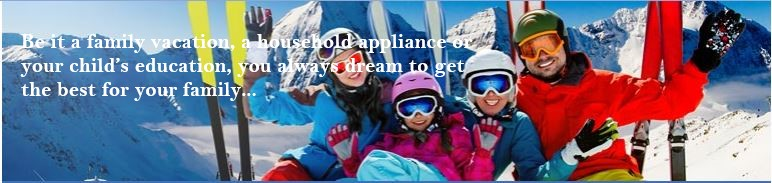
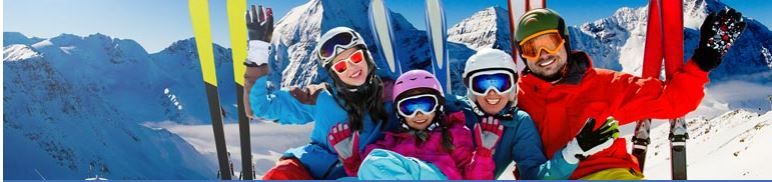
Adding Personal Loan file & Editing

diff --git a/ploan.html b/ploan.html
@@ -1,4 +1,5 @@
 <html>
+<html>
 <head>
 <title>XYZ Bank</title>
 <link rel="stylesheet" type="text/css" href="style.css" />
@@ -38,21 +39,24 @@
 </div>
 </div>
 </div>
-<h1 class="loan">Home Loans</h1>
-<img src="hloan.JPG" class="imgh" width="100%">
+<h1 class="loan">Personal Loan</h1>
+<img src="ploan1.JPG" class="imgh" width="100%">
+<br><br>
 <br><br>
 <div class="over">
 <ul >
 <li><h1 class="overview">Overview</h1><br>
 
-At XY Bank, you’ll find the partner you need to make your dream home come true. All our efforts work towards putting your dream home within your reach. Whether it’s purchasing a new house, or renovating your existing home, XY Bank has a wide range of home loan options* that are specific to your needs.<br><br>
+Be it a family vacation, a household appliance or your child’s education, you always dream to get the best for your family. With the Deutsche Bank personal loan products*, you will always be prepared to fulfill your dreams.
+<br><br>
 
-Here are some of the key features of a Home Loan: <br>
+Here are some of the key features of the loan: <br>
 <ul class="p" style="list-style-type:circle;">
-		<li>Avail of loan amounts up to Rs. 15 crores.<br>
-		<li>Enjoy the flexibility of tenures that ranges from 5 years to 20 years.<br>
-		<li>Choose between a fixed or a floating interest rate for your loan and enjoy complete peace of mind with attractive 
-			interest rates and savings on taxes under Income Tax Act, 1961.
+		<li>Easy loan tenure: Pay off your Personal Loan at your ease.<br>
+		<li>Balance transfer option: Transfer your high interest loan from any other bank to avail current interest rates.<br>
+		<li>Existing customer advantage: Avail of a Personal Loan without providing income papers.<br>
+		<li>Easy documentation: Avoid the hassle of multiple documentation.<br>
+		<li>Quick approval process: You don't have to wait too long to obtain a personal loan anymore.<br>
 </ul>
 <br>
 <center>
@@ -65,23 +69,20 @@ Here are some of the key features of a Home Loan: <br>
 <table class="tab"> 
 	<tr>
 		<th>Eligibility Criteria</th>
-		<td>Salaried</td>
-		<td>Self Employed</td>
+		<td>Existing Customers</td>
 	</tr>
 	<tr>
 		<td>Minimum Age</td>
-		<td>23 years</td>
-		<td>23 years</td>
+		<td>25 years</td>
 	</tr>
 	<tr>	
 		<td>Maximum Age</td>
-		<td>63 years or retirement,whichever is earlier</td>
-		<td>65 years</td>
+		<td>60 years</td>
 	</tr>
 	<tr>
-		<td>Minimum Gross Annual Income(in INR)</td>
-		<td>500,000</td>
-		<td>500,000</td>
+		<td>Income(INR)</td>
+		<td>Monthly take home- Rs. 25,000 or above</td>
+		<td>500,000</td>	
 	</tr>
 </table>
 </center>
@@ -190,5 +191,6 @@ Here are some of the key features of a Home Loan: <br>
 <pre>
 		<span id="dy">Copyright 2017 XYZ Bank  All Rights Reserved					<a href="#">Disclamier</a> | <a href="#">Privacy Policy</a> | <a href="#">Code Of Commitment</a></span>
 		</div>
+
 
 

diff --git a/index.html b/index.html
@@ -18,21 +18,23 @@
 <div>
 	<ul>
 	<li><a href="index.html">Home</a></li>
-	<li><a href="#">Grab Deals</a></li>
-	<li><a href="#">Make Payments</a></li>
-	<li><a href="netbank.html">Net Banking</a></li>
-	<li><a href="#">Progress With Us</a></li>
-	<li><a href="form.html">Open NRI Account</a></li>
-
-  <li class="dropdown">
+	<li class="dropdown">
     <a href="#" class="dropbtn">Loans</a>
     <div class="dropdown-content">
-      <a href="#">PersonalLoans</a>
-      <a href="hloan.html">Home Loans</a>
-      <a href="#">Car Loans</a>
-	  <a href="#">Educational Loans</a>
+      <a href="ploan.html">Personal Loan</a>
+      <a href="hloan.html">Home Loan</a>
+      <a href="#">Car Loan</a>
+	  <a href="#">Educational Loan</a>
     </div>
 </li>
+<li><a href="form.html">Open NRI Account</a></li>
+	<li><a href="netbank.html">Net Banking</a></li>
+	<li><a href="#">Grab Deals</a></li>
+	<li><a href="#">Make Payments</a></li>
+	<li><a href="#">Progress With Us</a></li>
+	
+
+  
 </ul>	
 </center>
 </div>

diff --git a/form.html b/form.html
@@ -17,21 +17,22 @@
 <div>
 	<ul>
 	<li><a href="index.html">Home</a></li>
-	<li><a href="#">Grab Deals</a></li>
-	<li><a href="#">Make Payments</a></li>
-	<li><a href="netbank.html">Net Banking</a></li>
-	<li><a href="#">Progress With Us</a></li>
-	<li><a href="form.html">Open NRI Account</a></li>
-
-  <li class="dropdown">
+	<li class="dropdown">
     <a href="#" class="dropbtn">Loans</a>
     <div class="dropdown-content">
-      <a href="#">PersonalLoans</a>
-      <a href="hloan.html">Home Loans</a>
-      <a href="#">Car Loans</a>
-	  <a href="#">Educational Loans</a>
+      <a href="ploan.html">Personal Loan</a>
+      <a href="hloan.html">Home Loan</a>
+      <a href="#">Car Loan</a>
+	  <a href="#">Educational Loan</a>
     </div>
 </li>
+<li><a href="form.html">Open NRI Account</a></li>
+	<li><a href="netbank.html">Net Banking</a></li>
+	<li><a href="#">Grab Deals</a></li>
+	<li><a href="#">Make Payments</a></li>
+	<li><a href="#">Progress With Us</a></li>
+
+  
 </ul>	
 </center>
 </div>

diff --git a/netbank.html b/netbank.html
@@ -17,21 +17,22 @@
 <div>
 	<ul>
 	<li><a href="index.html">Home</a></li>
-	<li><a href="#">Grab Deals</a></li>
-	<li><a href="#">Make Payments</a></li>
-	<li><a href="#">Net Banking</a></li>
-	<li><a href="netbank.html">Progress With Us</a></li>
-	<li><a href="form.html">Open NRI Account</a></li>
-
-  <li class="dropdown">
+	<li class="dropdown">
     <a href="#" class="dropbtn">Loans</a>
     <div class="dropdown-content">
-      <a href="#">PersonalLoans</a>
-      <a href="hloan.html">Home Loans</a>
-      <a href="#">Car Loans</a>
-	  <a href="#">Educational Loans</a>
+      <a href="ploan.html">Personal Loan</a>
+      <a href="hloan.html">Home Loan</a>
+      <a href="#">Car Loan</a>
+	  <a href="#">Educational Loan</a>
     </div>
 </li>
+<li><a href="form.html">Open NRI Account</a></li>
+	<li><a href="netbank.html">Net Banking</a></li>
+	<li><a href="#">Grab Deals</a></li>
+	<li><a href="#">Make Payments</a></li>
+	<li><a href="#">Progress With Us</a></li>
+
+  
 </ul>	
 </center>
 </div>

diff --git a/style.css b/style.css
@@ -61,11 +61,12 @@ ul {
     padding: 0px 180px;
     overflow: hidden;
     background-color: #333;
+	text-align:center;
 
 }
 
 li {
-    float: left;
+    float:left;
 
 }
 
